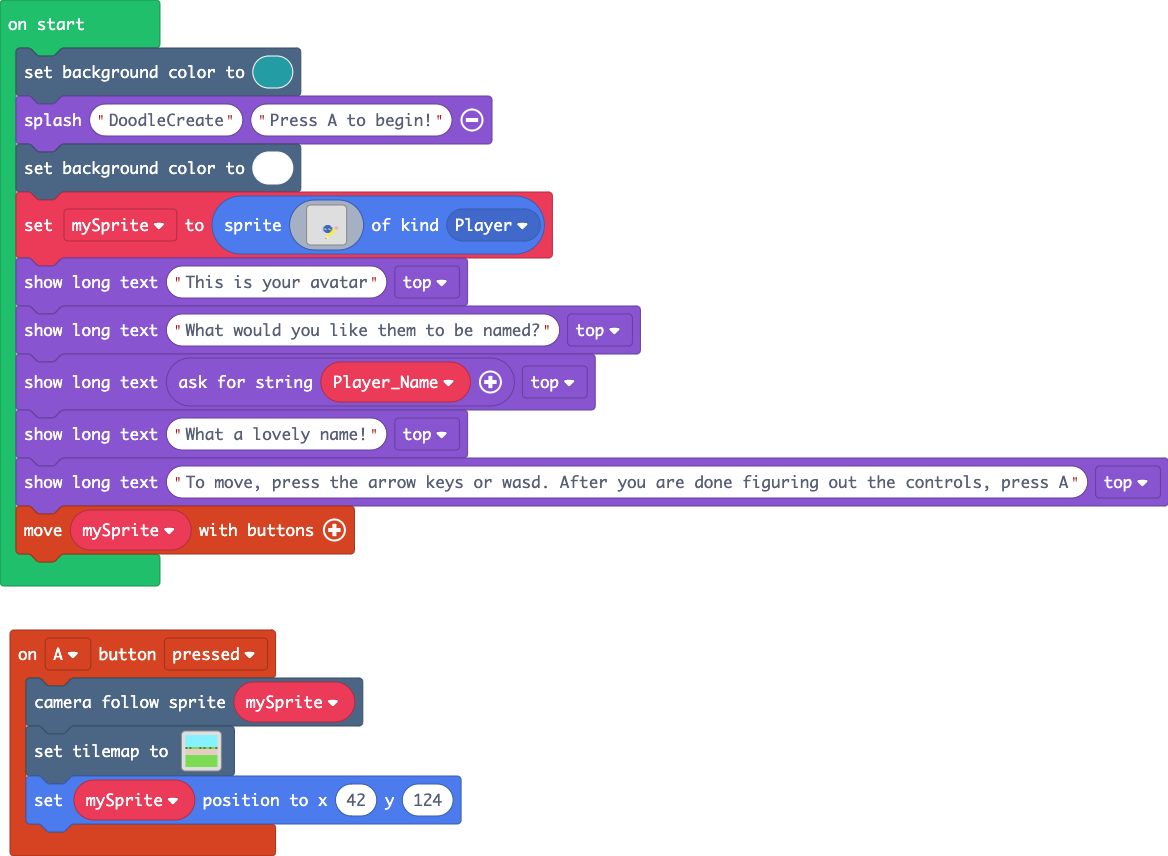
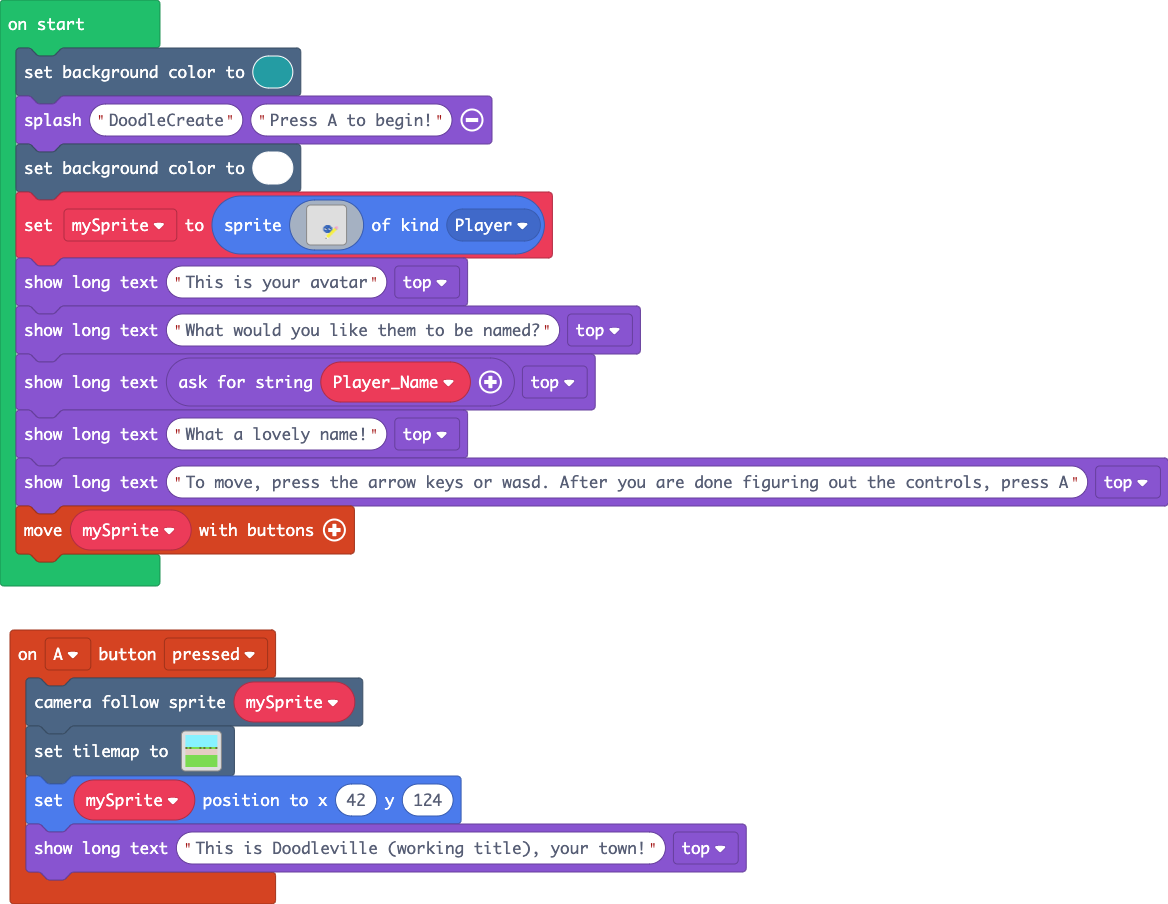
Update main.blocks, main.ts

Changed region(s): [[0.0, 0.0, 1.0, 0.972]]

diff --git a/main.ts b/main.ts
@@ -140,6 +140,7 @@ controller.A.onEvent(ControllerButtonEvent.Pressed, function () {
             TileScale.Sixteen
         ))
     mySprite.setPosition(42, 124)
+    game.showLongText("This is Doodleville (working title), your town!", DialogLayout.Top)
 })
 let Player_Name = ""
 let mySprite: Sprite = null
